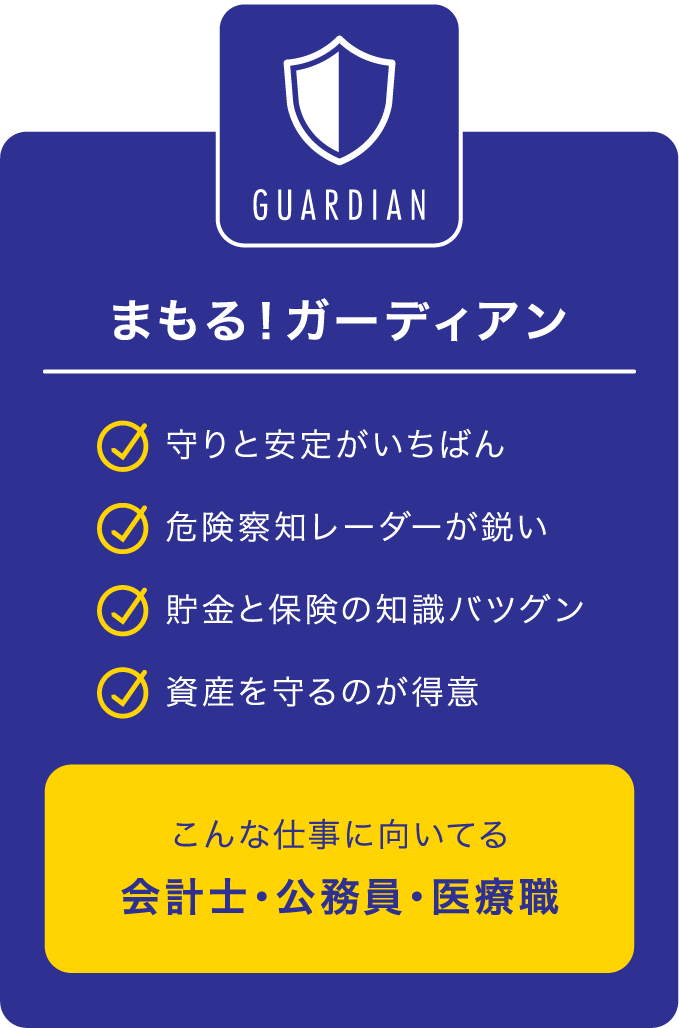
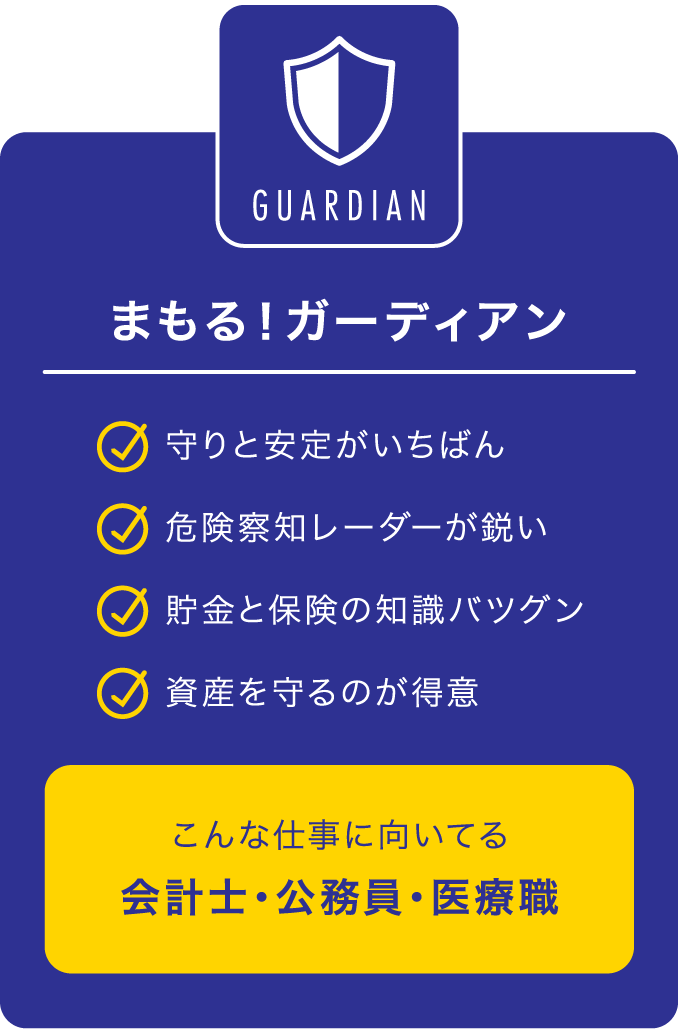
type-sectionレスポンシブ実装

diff --git a/css/style.css b/css/style.css
@@ -1085,15 +1085,15 @@ li {
 }
 @media only screen and (max-width: 499px) {
   .type-section__inner {
-    padding: 0 0.5rem;
+    padding: 0 1rem;
   }
   .type-section__cards {
-    /* grid-template-columns: 1fr; */
+    grid-template-columns: 1fr;
     gap: 8px;
     margin-top: 30px;
   }
-  /* .type-section__card {
+  .type-section__card {
     max-width: 75%;
     margin: 0 auto;
-  } */
+  }
 }